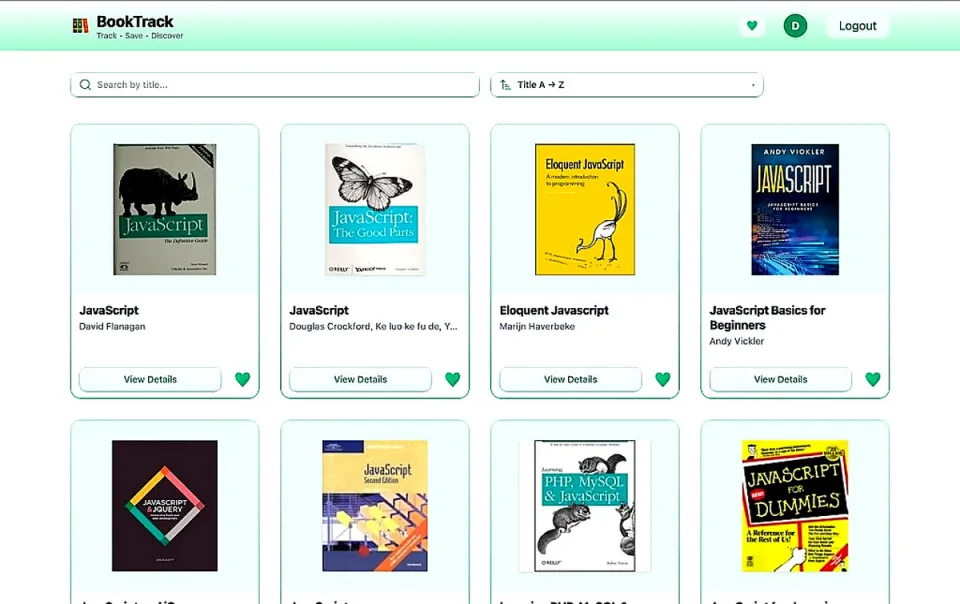
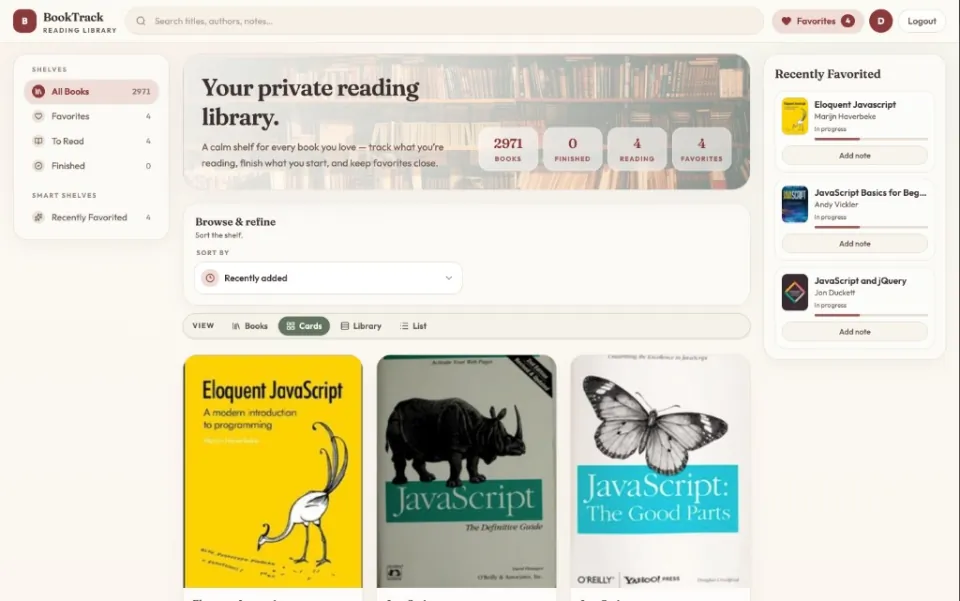
Update BookTrack preview and description to the reading library UI.

diff --git a/src/data/projects.ts b/src/data/projects.ts
@@ -11,10 +11,10 @@ export const projects: Project[] = [
     type: "Personal Project",
     period: "Dec 2025 – Jan 2026",
     description:
-      "Book-tracking SPA with Firebase Authentication (email + Google). Built debounced search, favorites, and progress tracking via custom hooks and Context API.",
+      "Personal reading library with shelves, smart collections, and four view modes. Search titles and authors, track progress, save favorites, and add notes — with Firebase Auth and Context API.",
     stack: ["React", "Context API", "React Router", "Firebase Auth", "Formik", "Tailwind CSS"],
     image: projectBooktrackImg,
-    alt: "BookTrack app preview",
+    alt: "BookTrack reading library dashboard",
     demo: "https://nadiaturko.github.io/booktrack/",
     github: "https://github.com/NadiaTurko/booktrack",
   },

diff --git a/README.md b/README.md
@@ -30,7 +30,7 @@ Designed as a single-page application with smooth scroll navigation, scroll anim
 - **Hero section** — introduction, profile photo, social links, and call-to-action buttons
 - **About** — photo with status badge, stats, highlights, and downloadable CV
 - **Skills** — categorized cards (Frontend, Languages & Web, Tools & Workflow, AI & Growth)
-- **Projects** — BookTrack SPA and Dental Clinic website with previews and links
+- **Projects** — BookTrack reading library and Dental Clinic website with previews and links
 - **Experience & Education** — interactive timeline tabs
 - **Contact form** — EmailJS integration
 - **Dark / Light theme** — persistent toggle with `localStorage`
@@ -127,7 +127,7 @@ npm run deploy
 
 | Project | Description | Links |
 |---------|-------------|-------|
-| **BookTrack** | Book-tracking SPA with Firebase Auth, favorites, and progress tracking | [Demo](https://nadiaturko.github.io/booktrack/) · [GitHub](https://github.com/NadiaTurko/booktrack) |
+| **BookTrack** | Reading library with shelves, search, favorites, progress, and notes | [Demo](https://nadiaturko.github.io/booktrack/) · [GitHub](https://github.com/NadiaTurko/booktrack) |
 | **Dental Clinic** | Marketing site from Figma to production with Gulp pipeline | [Live site](https://ronevich.com.ua/) |
 
 ---
